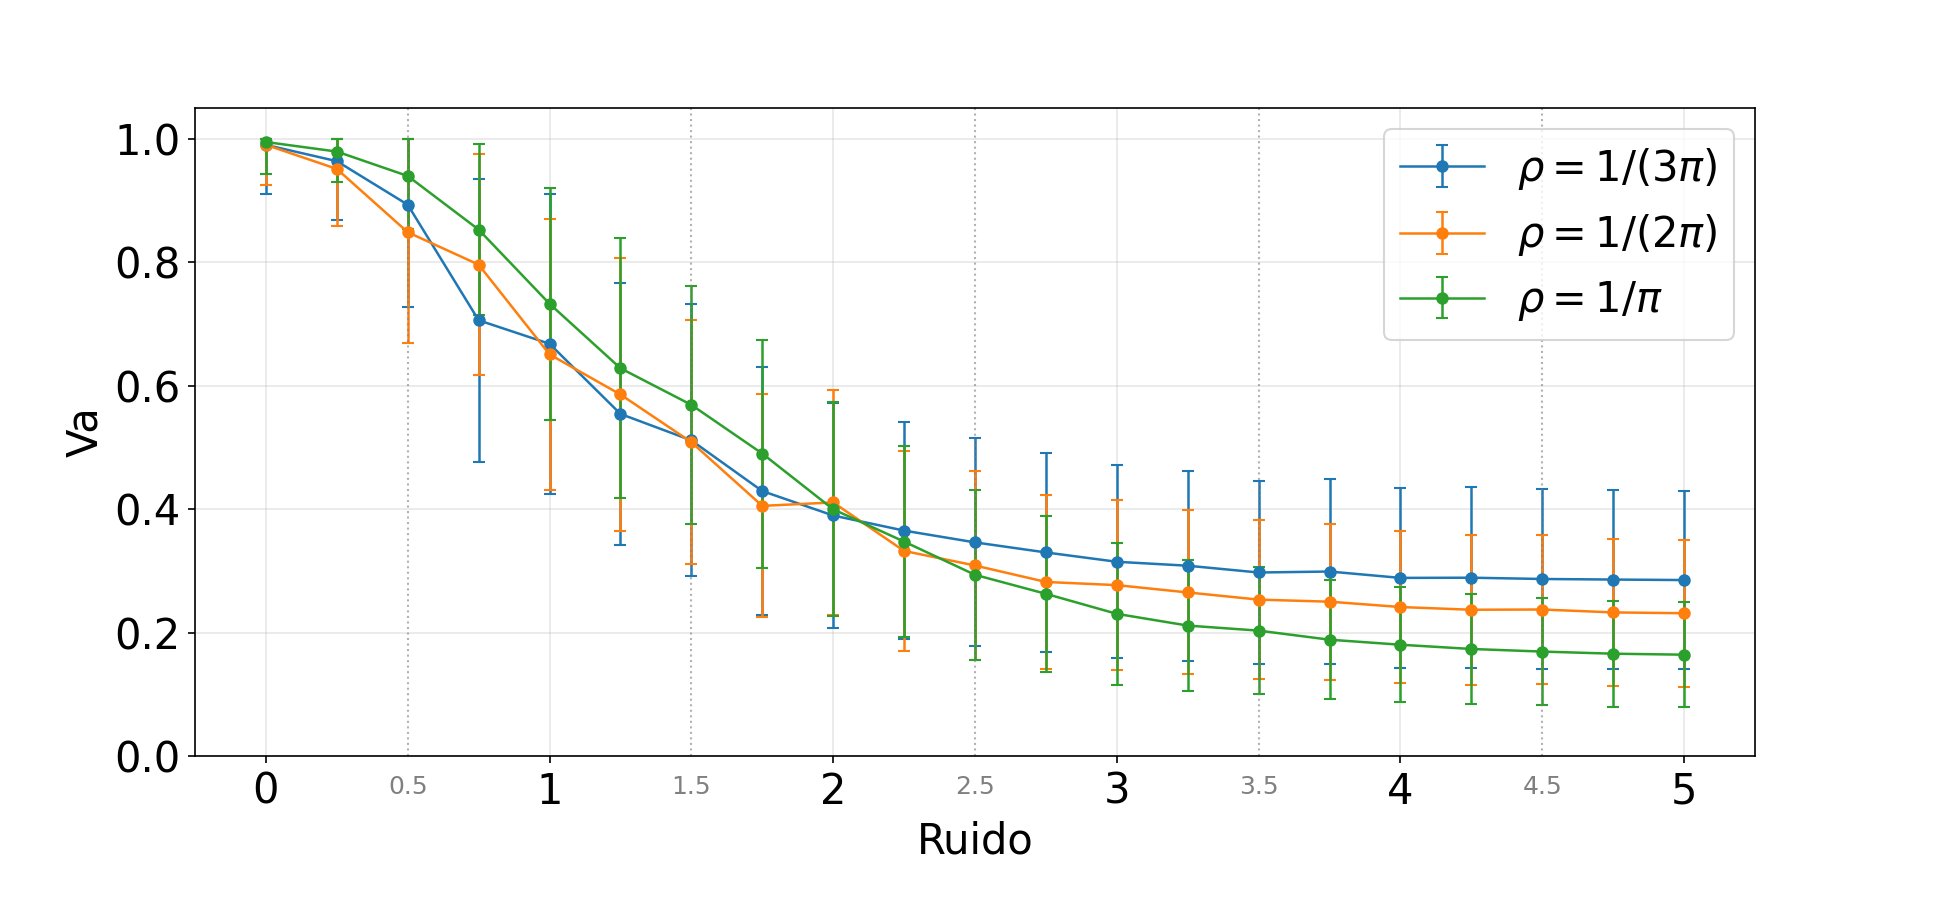
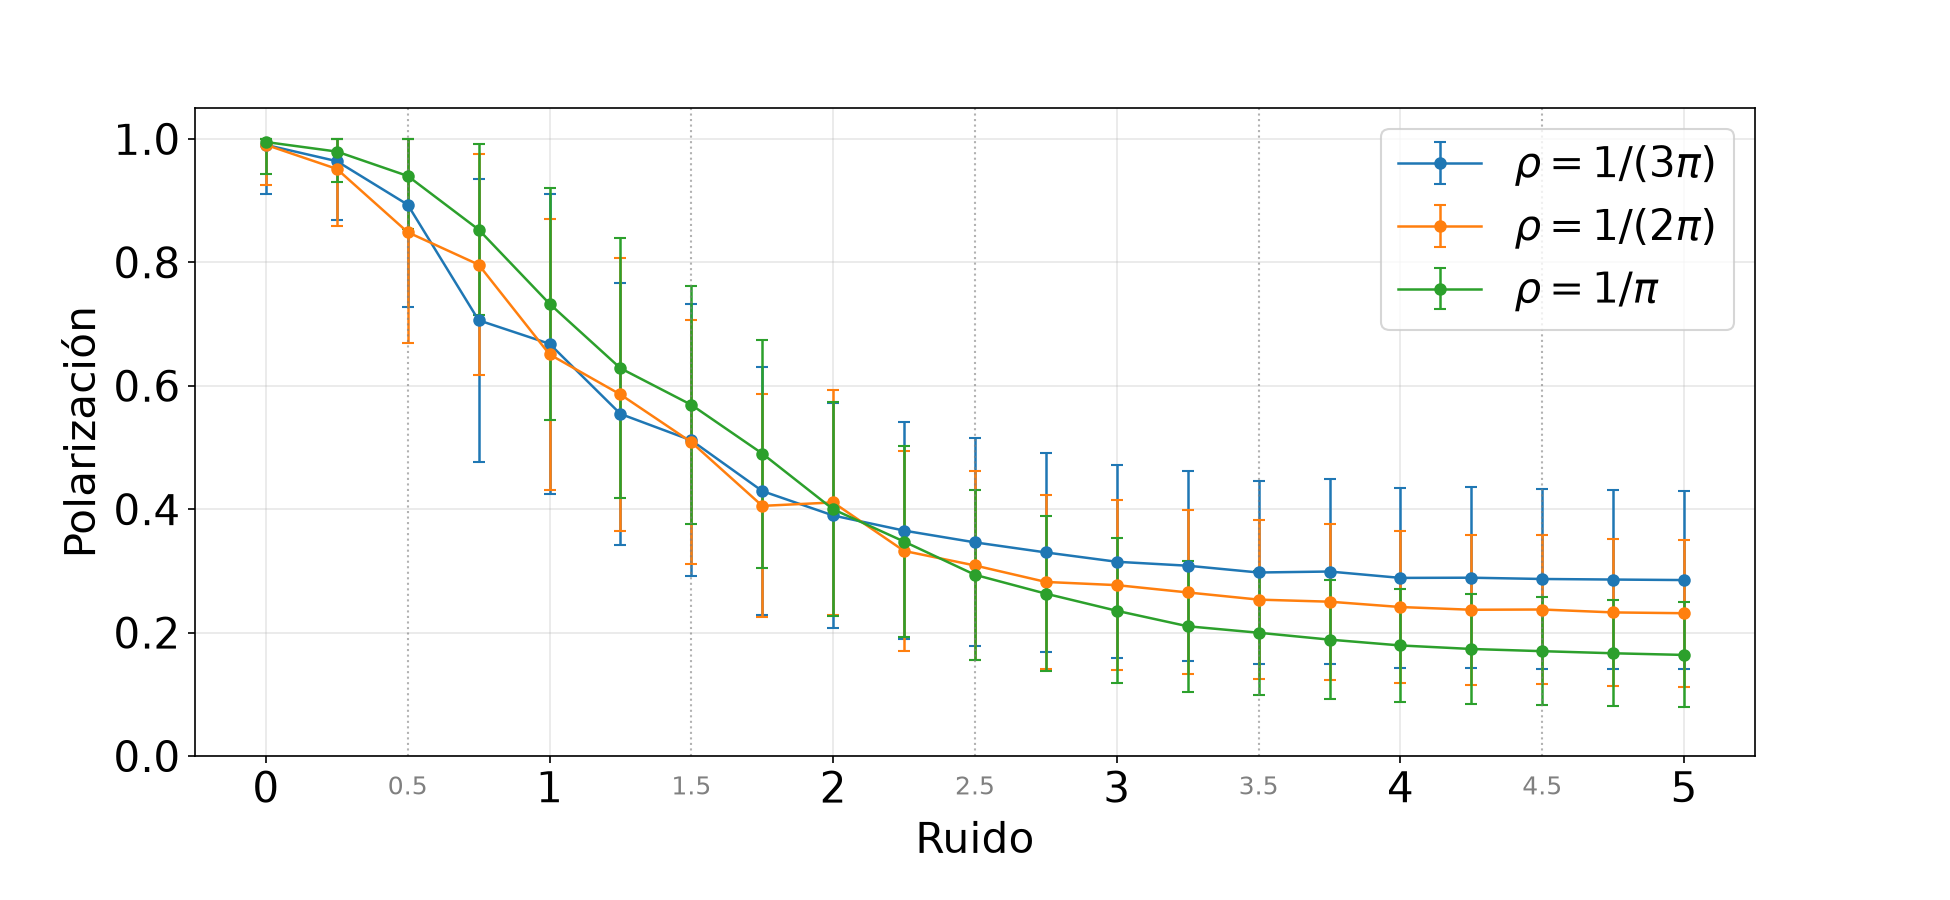
Corrected axis names | deleted old plots

diff --git a/python/plot/new/evolucion_va_ruidos.py b/python/plot/new/evolucion_va_ruidos.py
@@ -34,7 +34,7 @@ def graficar(casos, archivo_salida=None):
         ax.axvline(t_inicio, color=color, linestyle="--", linewidth=1.6, alpha=0.7)
 
     ax.set_xlabel("Pasos", fontsize=FUENTE)
-    ax.set_ylabel("Va", fontsize=FUENTE)
+    ax.set_ylabel("Polarización", fontsize=FUENTE)
     ax.tick_params(labelsize=FUENTE)
     ax.set_ylim(0, 1.05)
     ax.legend(loc="lower right", fontsize=FUENTE)

diff --git a/python/plot/new/polarizacion_vs_eta.py b/python/plot/new/polarizacion_vs_eta.py
@@ -79,7 +79,7 @@ def graficar(directorios, modelo, archivo_salida=None):
                     fontsize=FUENTE - 8, color="gray")
 
     ax.set_xlabel("Ruido", fontsize=FUENTE)
-    ax.set_ylabel("Va", fontsize=FUENTE)
+    ax.set_ylabel("Polarización", fontsize=FUENTE)
     ax.tick_params(labelsize=FUENTE)
     ax.set_ylim(0, 1.05)
     ax.legend(loc="best", fontsize=FUENTE)
